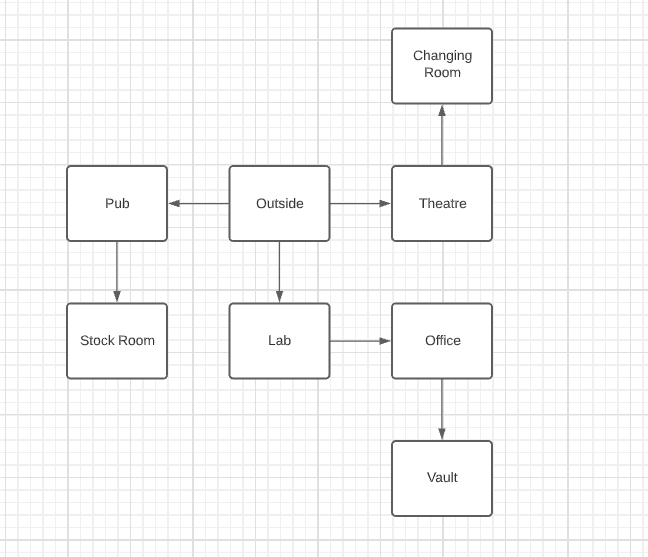
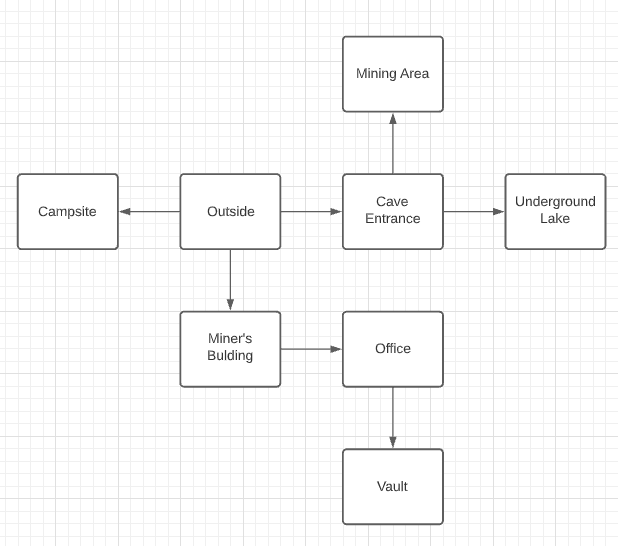
changes

diff --git a/app216-zuul/Map.java b/app216-zuul/Map.java
@@ -1,4 +1,4 @@
-
+import java.util.ArrayList;
 /**
  * This class is reponsible for creating and
  * linking all the Locations in the game to
@@ -15,7 +15,7 @@ public class Map
 {
     // Need to add a list of exits
     
-    private Location outside, theater, changingRoom, pub, stockRoom, lab, office, vault;
+    private Location outside, minersBuilding, office, vault, campsite, caveEntrance, miningArea, undergroundLake;
 
     private Location currentLocation;
 
@@ -25,6 +25,9 @@ public class Map
     public Map()
     {
         createLocations();
+        setRequiredItems();
+        
+        ArrayList<Items> inventory = new ArrayList<Items>();
     }
 
     /**
@@ -36,95 +39,40 @@ public class Map
     private void createLocations()
     {
         createOutside();
-        createTheatre();
-        createPub();
+        createMinersBuilding();
         createOffice();
-        createLab();
         createVault();
-
+        createCampsite();
+        createCaveEntrance();
+        createMiningArea();
+        createUndergroundLake();
+        
         currentLocation = outside;  // start game outside
     }
     
     /**
      * Create the outside and link it to the
-     * theatre, lab and pub
+     * miner's building, campsite and cave entrance
      */
     private void createOutside()
     {
-        outside = new Location("outside in the town centre");
-        
-        outside.setExit("east", theater);
-        outside.setExit("south", lab);
-        outside.setExit("west", pub);
+        outside = new Location("outside of the old mining facility");
     }
     
     /**
-     * Create the pub and link it to the outside
+     // * Create the miner's building and link it to the outside
      */
-    private void createPub()
+    private void createMinersBuilding()
     {
-        pub = new Location("in the town pub");
-        
-        pub.setExit("east", outside);
-        outside.setExit("west", pub);
+        minersBuilding = new Location("the old miner's building");
     }
     
     /**
-     * Create the vault and link it to the office
-     */
-    private void createStockRoom()
-    {
-        stockRoom = new Location("in the pub");
-        
-        stockRoom.setExit("north", pub);
-        pub.setExit("south", stockRoom);
-    }
-    
-    /**
-     * Create the theatre linked to the outside
-     */
-    private void createTheatre()
-    {
-        theater = new Location("in the town theatre");
-        
-        theater.setExit("west", outside);
-        outside.setExit("east", theater);
-    }
-    
-    /**
-     * Create the theatre linked to the outside
-     */
-    private void createChangingRoom()
-    {
-        changingRoom = new Location("in the theatre");
-        
-        theater.setExit("west", outside);
-        outside.setExit("east", theater);
-    }
-    
-    /**
-     * Create the office linked to the lab
+     * Create the office and link it to the miner's building
      */
     private void createOffice()
     {
-        office = new Location("in the admin office");
-        
-        office.setExit("west", lab);
-    }
-    
-    /**
-     * Create the lab and link it to the outside and office
-     */
-    private void createLab()
-    {
-        // create the Locations
-        lab = new Location("in a computing lab");
-        
-        lab.setExit("east", office);
-        office.setExit("west", lab);
-        
-        lab.setExit("north", outside);
-        outside.setExit("south", lab);
+        office = new Location("this is the chief miner's office");
     }
     
     /**
@@ -132,10 +80,51 @@ public class Map
      */
     private void createVault()
     {
-        vault = new Location("in the admin office");
-        
-        vault.setExit("north", office);
-        office.setExit("south", vault);
+        vault = new Location("a vault found inside of the chief miner's office, you need a key to enter!");
+    }
+    
+    /**
+     * Create the campsite and link it to the outside
+     */
+    private void createCampsite()
+    {
+        campsite = new Location("this is where the miner's rested after a long day of work");
+    }
+    
+    /**
+     * Create the cave entrance and link it to the outside
+     */
+    private void createCaveEntrance()
+    {
+        caveEntrance = new Location("the entrance to a dark cave, you need a torch to enter!");
+    }
+    
+    /**
+     * Create the mining area and link it to the cave entrance
+     */
+    private void createMiningArea()
+    {
+        // create the Locations
+        miningArea = new Location("this is where the miner's found their treasure");
+    }
+    
+    /**
+     * Create the underground lake and link it to the cave entrance
+     */
+    private void createUndergroundLake()
+    {
+        undergroundLake = new Location("you find a mysterious underground lake, you need a snorkel to enter!");
+    }
+    
+    
+    /**
+     * Set the required items needed to enter certain rooms
+     */
+    private void setRequiredItems()
+    {
+        vault.setRequiredItem(Items.KEY);
+        caveEntrance.setRequiredItem(Items.TORCH);
+        undergroundLake.setRequiredItem(Items.SNORKEL);
     }
     
     public Location getCurrentLocation()

diff --git a/app216-zuul/HelpCommand.java b/app216-zuul/HelpCommand.java
@@ -20,7 +20,7 @@ public class HelpCommand extends ZuulCommand
     public void execute()
     {
         System.out.println(" You are lost. You are alone. You wander");
-        System.out.println(" around at the university.");        
+        System.out.println(" around the town.");        
         System.out.println();
         System.out.println(" Your command words are:");
         System.out.println();

diff --git a/app216-zuul/CommandWords.java b/app216-zuul/CommandWords.java
@@ -9,6 +9,9 @@
 public enum CommandWords
 {
     GO   ("go","Exit location in <direction>"),
+    ATTACK ("attack", "Attack the enemy"),
+    DRINKHEALTHPOTION ("drink potion", "Drink health potion"),
+    RUN ("run", "Run from the enemy"),
     TAKE ("take", "Take <item> from location"),
     HELP ("help", "List all available commands"),
     QUIT ("quit", "End the game");

diff --git a/app216-zuul/Game.java b/app216-zuul/Game.java
@@ -51,6 +51,15 @@ public class Game
     }
 
     /**
+     * Player Variables
+     */
+    public void playerVariables() 
+    {            
+        int health = 100;
+        int score = 0;
+    }
+    
+    /**
      * Print out the opening message for the player.
      */
     private void printWelcome()
